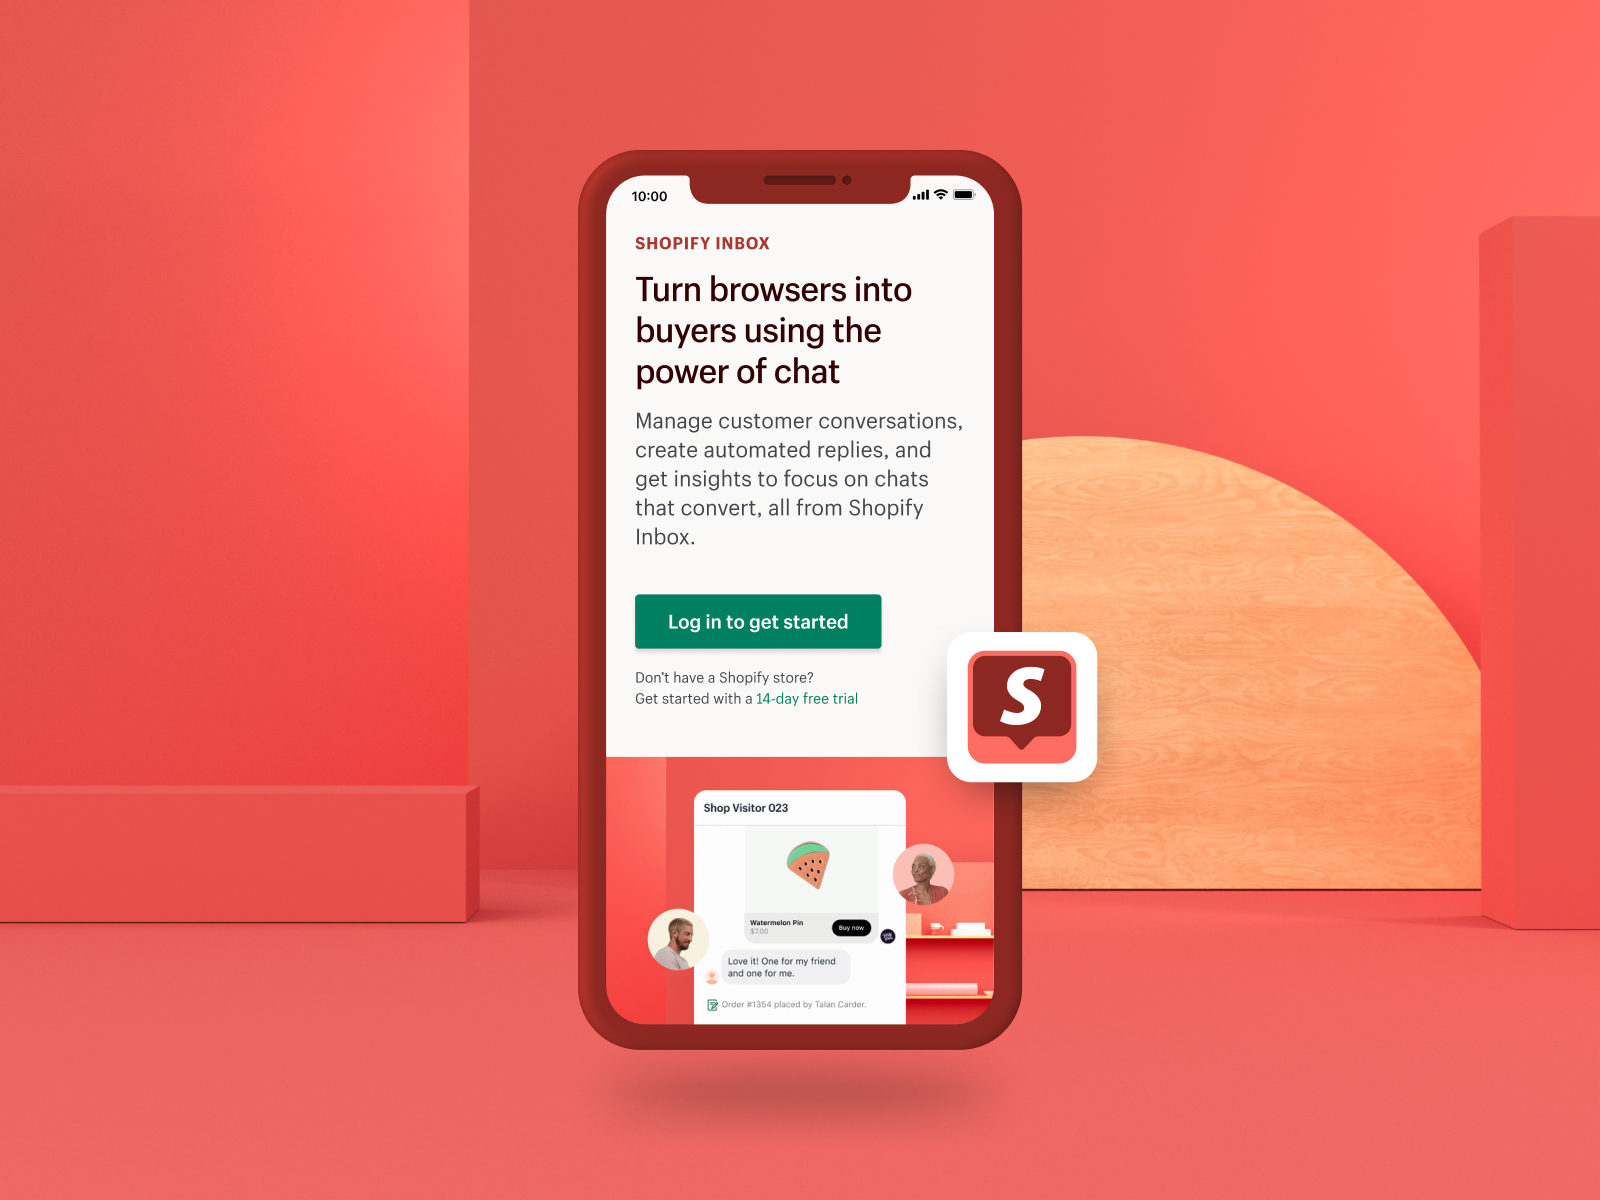
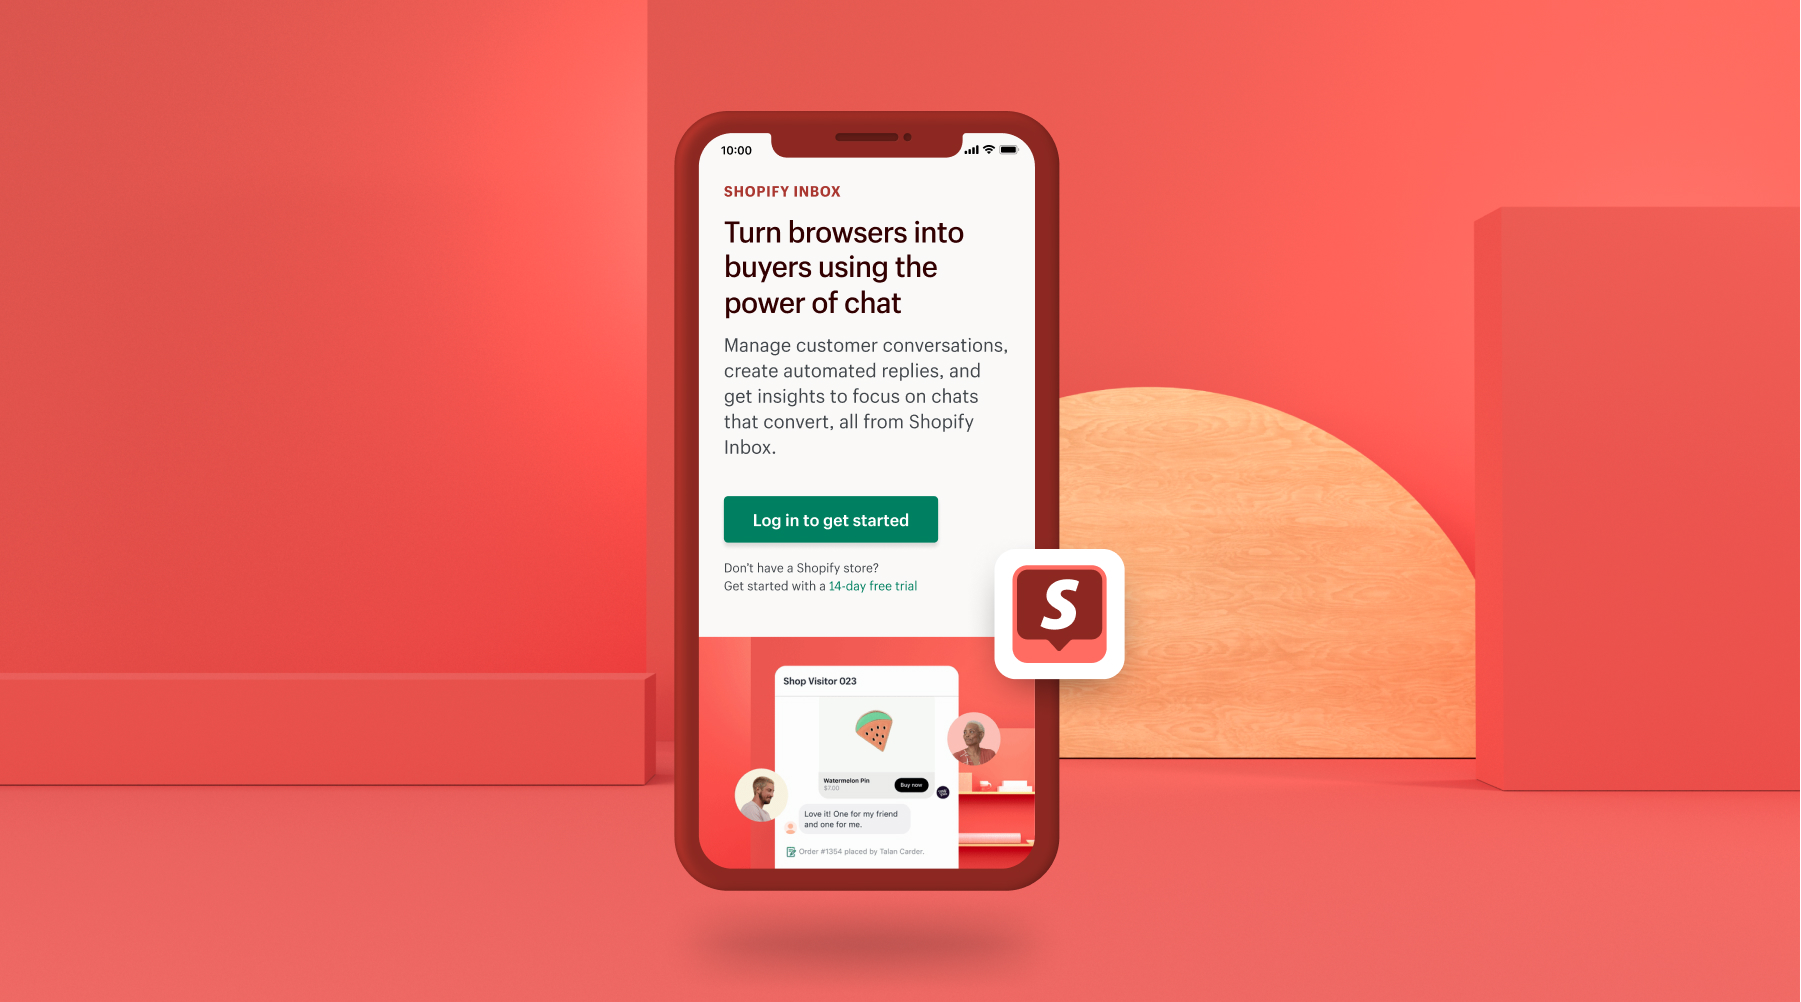
Update shop feature image

Changed region(s): [[0.2812, 0.0, 0.9375, 0.99], [0.9375, 0.7735, 1.0, 0.8044], [0.9062, 0.1856, 0.9688, 0.2166]]

diff --git a/index.html b/index.html
@@ -156,7 +156,7 @@ if (!doNotTrack) {
                             
                             
                             <div class="thumbnail">
-                                <img src="/article/inbox/shop-thumbnail_hu929618a62a23824cf31a1125df45159f_1165543_800x400_fill_q90_linear_smart1.jpg" alt="Shopify Inbox">
+                                <img src="/article/inbox/shop-thumbnail_hue6d4ea8b72b5ef59a6074df9d37d7c17_1037256_800x400_fill_q90_linear_smart1.jpg" alt="Shopify Inbox">
                             </div>
                             <h3>Shopify Inbox</h3>
                             <p>How I used my passion projects to create powerful creative for Shopify Inbox. I can’t sit still. Whether it’s taking photos, making music, or building something - my happiness is directly linked to my productivity....</p>

diff --git a/article/index.html b/article/index.html
@@ -89,7 +89,7 @@ if (!doNotTrack) {
                         
                             
                             <div class="thumbnail">
-                                <img src="/article/inbox/shop-thumbnail_hu929618a62a23824cf31a1125df45159f_1165543_800x400_fill_q90_linear_smart1.jpg" alt="Shopify Inbox">
+                                <img src="/article/inbox/shop-thumbnail_hue6d4ea8b72b5ef59a6074df9d37d7c17_1037256_800x400_fill_q90_linear_smart1.jpg" alt="Shopify Inbox">
                             </div>
                         
                         <h3>Shopify Inbox</h3>
